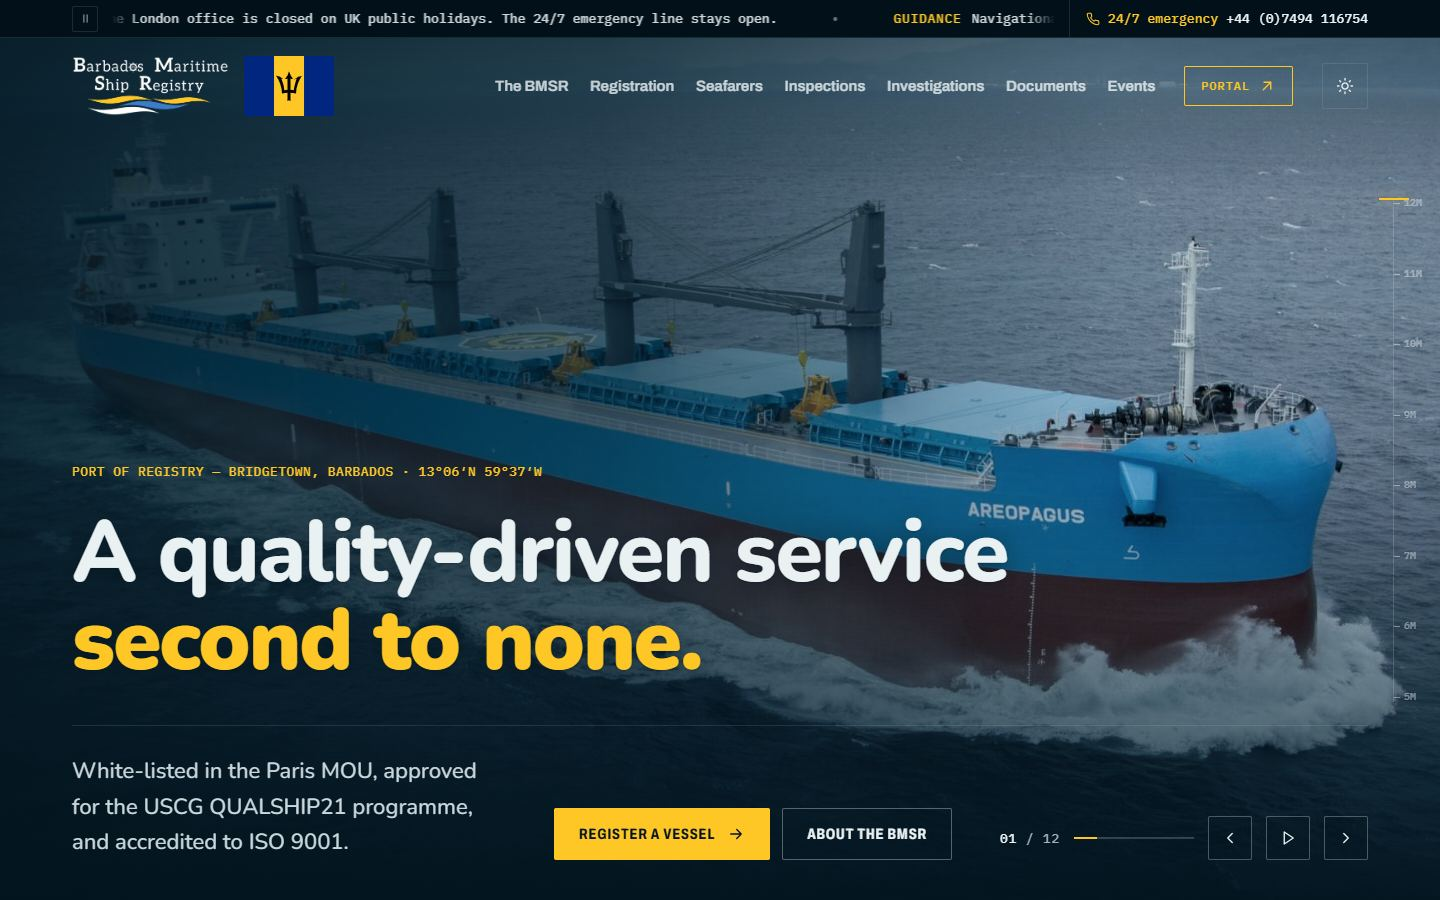
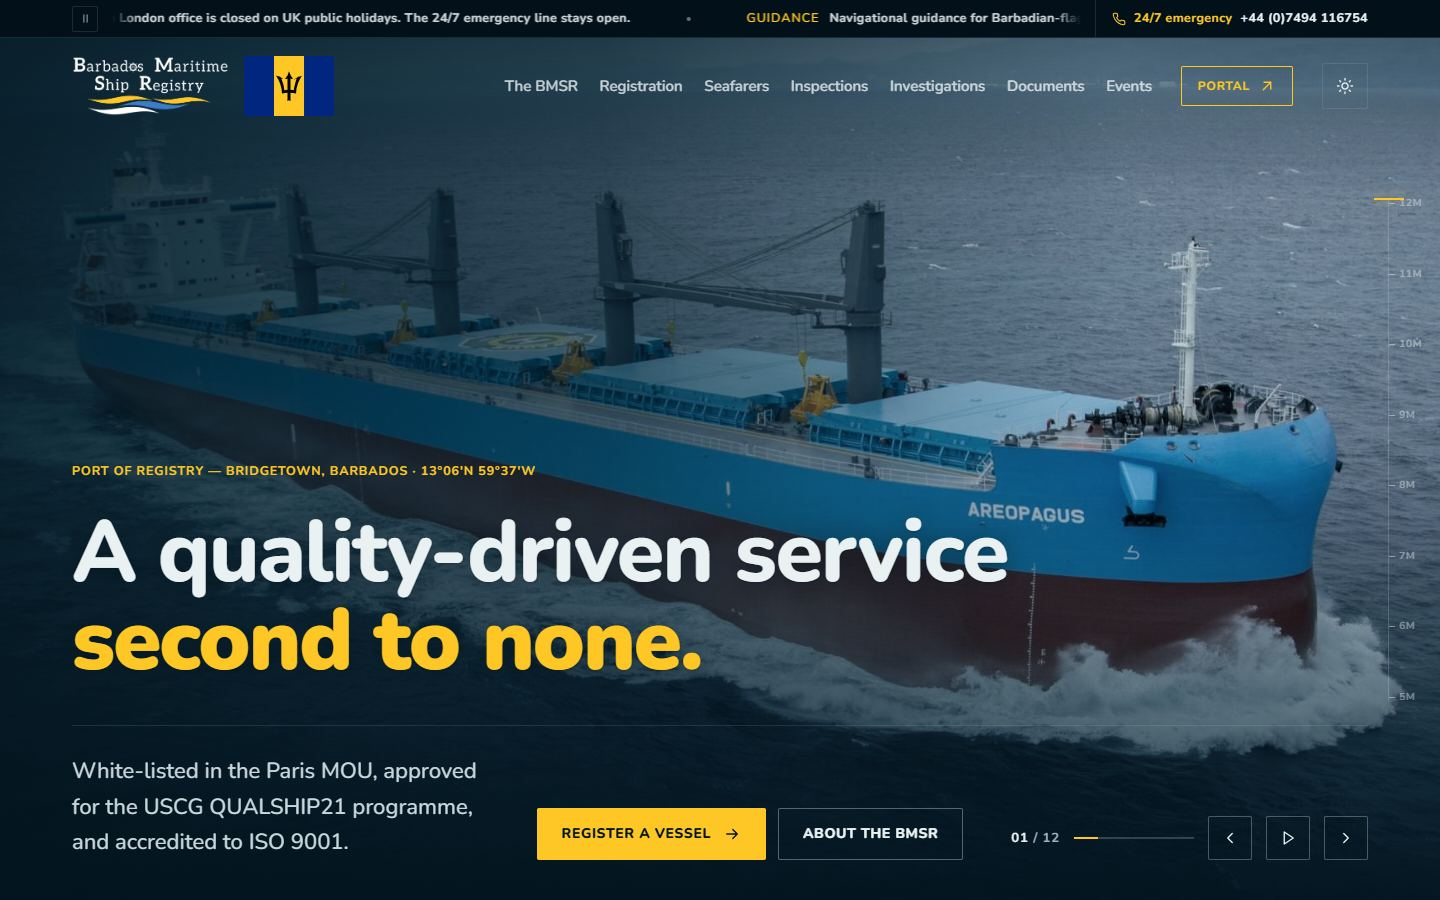
update font everywhere on the option b & c

diff --git a/index.html b/index.html
@@ -131,7 +131,7 @@ footer .wrap{display:flex;justify-content:space-between;gap:12px 24px;flex-wrap:
   <section class="intro wrap">
     <p class="tag">Four revised home pages</p>
     <h1 class="hull">Choose a <span>headline style</span></h1>
-    <p class="lead">Every page includes all the changes from your brief: the clearer logo and matching flag, the full-width layout, the scrolling announcement bar, light and dark mode, opening hours, emergency contacts and recognised organisations. Options A, B and C differ only in the typography of the banner headline, so you can compare like for like. Option D keeps Option A's headline and goes further, with redesigned sections below it.</p>
+    <p class="lead">Every page includes all the changes from your brief: the clearer logo and matching flag, the full-width layout, the scrolling announcement bar, light and dark mode, opening hours, emergency contacts and recognised organisations. Option A keeps the current fonts and changes only the banner headline. Options B and C each carry their own font through the whole page: rounded Nunito in B, Plus Jakarta Sans in C. Option D keeps Option A's headline and goes further, with redesigned sections below it.</p>
   </section>
 
   <section class="opts wrap" aria-label="Options">
@@ -150,8 +150,8 @@ footer .wrap{display:flex;justify-content:space-between;gap:12px 24px;flex-wrap:
       <div class="body">
         <div class="name"><b>B</b><h2 class="hull">Soft Modern</h2></div>
         <p class="sample sb">A quality-driven service <span>second to none.</span></p>
-        <dl><dt>Font</dt><dd>Nunito, a rounded sans</dd><dt>Weights</dt><dd>Heavy 800, key phrase 900</dd><dt>Case</dt><dd>Sentence case</dd></dl>
-        <p class="note">The rounded style you asked to try: softer and more modern, while the heavy weight keeps it confident and professional.</p>
+        <dl><dt>Font</dt><dd>Nunito, a rounded sans, used throughout the page</dd><dt>Weights</dt><dd>Heavy 800, key phrase 900</dd><dt>Case</dt><dd>Sentence case, headings included</dd></dl>
+        <p class="note">The rounded style you asked to try, carried through every heading, button and label for a softer, more modern feel. The heavy weight keeps it confident and professional.</p>
         <div class="links"><a class="btn btn-gold" href="option-b/index.html" target="_blank" rel="noopener">View option B <svg class="ar"><use href="#ar"/></svg><span class="sr"> (opens in a new tab)</span></a><a class="btn btn-line" href="option-b/index.html?theme=light" target="_blank" rel="noopener">Light mode<span class="sr"> (opens in a new tab)</span></a></div>
       </div>
     </article>
@@ -160,8 +160,8 @@ footer .wrap{display:flex;justify-content:space-between;gap:12px 24px;flex-wrap:
       <div class="body">
         <div class="name"><b>C</b><h2 class="hull">Clean Authority</h2></div>
         <p class="sample sc">A quality-driven service <span>second to none.</span></p>
-        <dl><dt>Font</dt><dd>Plus Jakarta Sans</dd><dt>Weights</dt><dd>Bold 700 statement, light 300 key phrase</dd><dt>Case</dt><dd>Sentence case</dd></dl>
-        <p class="note">Calm and corporate. The reverse of Option A's contrast: a bold statement answered by an elegant light phrase in gold.</p>
+        <dl><dt>Font</dt><dd>Plus Jakarta Sans, used throughout the page</dd><dt>Weights</dt><dd>Bold 700 statement, light 300 key phrase, in every heading</dd><dt>Case</dt><dd>Sentence case, headings included</dd></dl>
+        <p class="note">Calm and corporate, across the whole page. Every heading pairs a bold statement with an elegant light phrase in gold, the reverse of Option A's contrast.</p>
         <div class="links"><a class="btn btn-gold" href="option-c/index.html" target="_blank" rel="noopener">View option C <svg class="ar"><use href="#ar"/></svg><span class="sr"> (opens in a new tab)</span></a><a class="btn btn-line" href="option-c/index.html?theme=light" target="_blank" rel="noopener">Light mode<span class="sr"> (opens in a new tab)</span></a></div>
       </div>
     </article>

diff --git a/option-c/index.html b/option-c/index.html
@@ -409,12 +409,44 @@ button,input{font:inherit}
 <link href="https://fonts.googleapis.com/css2?family=Plus+Jakarta+Sans:wght@200..800&display=swap" rel="stylesheet">
 <style>
 /* Option C · Clean Authority
-   Plus Jakarta Sans in sentence case, tightly tracked: a bold statement (700) answered by a light key phrase (300) in gold,
-   the reverse of Option A's contrast. The lead is set light (300) and a touch larger for a calm, corporate feel. */
+   Plus Jakarta Sans throughout the page, in sentence case and tightly tracked. Its signature, set by the banner, is a bold
+   statement (700) answered by a light key phrase (300) in gold; every section heading repeats it. The font has no condensed
+   width, so headings and big numbers are sized down to keep their line breaks. Labels keep capitals and wide tracking. */
+:root{--sans:"Plus Jakarta Sans",system-ui,-apple-system,"Segoe UI",sans-serif;--mono:"Plus Jakarta Sans",system-ui,-apple-system,"Segoe UI",sans-serif}
+
+/* banner headline */
 .hero h1{font-family:"Plus Jakarta Sans",var(--sans);font-stretch:100%;text-transform:none;font-weight:700;letter-spacing:-.035em;line-height:1.04;font-size:clamp(46px,5.8vw,96px);max-width:13em}
 .hero h1 span{font-weight:300;letter-spacing:-.03em}
 .hero .lead{font-family:"Plus Jakarta Sans",var(--sans);font-weight:300;font-size:clamp(19px,1.6vw,22px);color:#D6E2E6}
-@media (max-width:640px){.hero h1{font-size:clamp(38px,10.5vw,52px)}}
+
+/* headings and big numbers: sentence case, bold 700, tight tracking; the gold key phrase goes light, echoing the banner */
+.hull{font-stretch:100%;text-transform:none;font-weight:700;letter-spacing:-.03em;line-height:1.02}
+.h2 span,.ftr .news-l h2 span{font-weight:300;letter-spacing:-.025em}
+.h2{font-size:clamp(34px,4.2vw,60px)}
+.cell .big{font-size:clamp(23px,1.85vw,29px);line-height:1.06}
+.badge b{font-size:27px}
+.marks b{font-size:clamp(42px,4.4vw,66px)}
+.svc h3{font-size:25px}
+.isle b{font-size:clamp(46px,5.4vw,84px)}
+.accr b{font-size:clamp(24px,2vw,31px)}
+.cta .line{font-size:clamp(34px,5.2vw,78px)}
+.ftr .news-l h2{font-size:clamp(30px,3.2vw,44px)}
+.mnav a{font-size:27px}
+
+/* buttons: were condensed caps; this font is wider, so slightly smaller */
+.btn{font-stretch:100%;font-weight:700;font-size:14px;letter-spacing:.05em}
+
+/* labels (were IBM Plex Mono 500): bolder with wider tracking so they still read as labels */
+.tag,.go,.abar,.portal,.count,.status,.badge small,.sheet dt,.ntm .ref,.ftr label,.ftr .bottom,.draught,.mbar .call{font-weight:600;letter-spacing:.08em}
+.abar,.ftr .bottom{letter-spacing:.03em}
+
+@media (max-width:640px){
+  .hero h1{font-size:clamp(38px,10.5vw,52px)}
+  .marks b{font-size:44px}
+  .isle b{font-size:48px}
+  .accr b{font-size:24px}
+  .cta .line{font-size:clamp(30px,8.6vw,42px)}
+}
 </style>
 </head>
 <body>

diff --git a/option-b/index.html b/option-b/index.html
@@ -409,12 +409,44 @@ button,input{font:inherit}
 <link href="https://fonts.googleapis.com/css2?family=Nunito:wght@400..1000&display=swap" rel="stylesheet">
 <style>
 /* Option B · Soft Modern
-   Nunito, a rounded sans, in sentence case for a softer, friendlier headline.
-   Heavy throughout (800, key phrase 900) so the rounded shapes still read as confident; the lead follows in Nunito 500. */
+   Nunito, a rounded sans, throughout the page: headline, headings, body text, buttons and labels.
+   Headings and big numbers switch from condensed capitals to sentence case, sized down to keep their line breaks
+   (Nunito has no condensed width). Labels keep their capitals and tracking, so they still read as labels. */
+:root{--sans:"Nunito",system-ui,-apple-system,"Segoe UI",sans-serif;--mono:"Nunito",system-ui,-apple-system,"Segoe UI",sans-serif}
+
+/* banner headline: heavy throughout (800, key phrase 900) so the rounded shapes still read as confident */
 .hero h1{font-family:"Nunito",var(--sans);font-stretch:100%;text-transform:none;font-weight:800;letter-spacing:-.02em;line-height:1.02;font-size:clamp(48px,6vw,100px);max-width:13em}
 .hero h1 span{font-weight:900}
 .hero .lead{font-family:"Nunito",var(--sans);font-weight:500;font-size:clamp(19px,1.6vw,22px)}
-@media (max-width:640px){.hero h1{font-size:clamp(38px,11vw,54px)}}
+
+/* headings and big numbers: sentence case Nunito 800 in place of condensed caps */
+.hull{font-stretch:100%;text-transform:none;letter-spacing:-.02em;line-height:1}
+.h2{font-size:clamp(34px,4.2vw,60px)}
+.cell .big{font-size:clamp(24px,1.9vw,30px);line-height:1.05}
+.badge b{font-size:28px}
+.marks b{font-size:clamp(42px,4.4vw,66px)}
+.svc h3{font-size:26px}
+.isle b{font-size:clamp(48px,5.6vw,86px)}
+.accr b{font-size:clamp(24px,2vw,32px)}
+.cta .line{font-size:clamp(36px,5.4vw,80px)}
+.ftr .news-l h2{font-size:clamp(30px,3.2vw,44px)}
+.mnav a{font-size:28px}
+
+/* buttons: were condensed caps; Nunito capitals are wider, so slightly smaller with less tracking */
+.btn{font-stretch:100%;font-weight:800;font-size:14px;letter-spacing:.04em}
+
+/* labels (were IBM Plex Mono 500): Nunito is lighter at small sizes, so bolder and a touch more tracking */
+.tag,.go,.abar,.portal,.count,.status,.badge small,.sheet dt,.ntm .ref,.ftr label,.ftr .bottom,.draught,.mbar .call{font-weight:700;letter-spacing:.07em}
+.abar,.ftr .bottom{letter-spacing:.03em}
+.draught{font-weight:600}
+
+@media (max-width:640px){
+  .hero h1{font-size:clamp(38px,11vw,54px)}
+  .marks b{font-size:44px}
+  .isle b{font-size:50px}
+  .accr b{font-size:24px}
+  .cta .line{font-size:clamp(32px,9vw,44px)}
+}
 </style>
 </head>
 <body>

diff --git a/src/type-c.css b/src/type-c.css
@@ -1,7 +1,39 @@
 /* Option C · Clean Authority
-   Plus Jakarta Sans in sentence case, tightly tracked: a bold statement (700) answered by a light key phrase (300) in gold,
-   the reverse of Option A's contrast. The lead is set light (300) and a touch larger for a calm, corporate feel. */
+   Plus Jakarta Sans throughout the page, in sentence case and tightly tracked. Its signature, set by the banner, is a bold
+   statement (700) answered by a light key phrase (300) in gold; every section heading repeats it. The font has no condensed
+   width, so headings and big numbers are sized down to keep their line breaks. Labels keep capitals and wide tracking. */
+:root{--sans:"Plus Jakarta Sans",system-ui,-apple-system,"Segoe UI",sans-serif;--mono:"Plus Jakarta Sans",system-ui,-apple-system,"Segoe UI",sans-serif}
+
+/* banner headline */
 .hero h1{font-family:"Plus Jakarta Sans",var(--sans);font-stretch:100%;text-transform:none;font-weight:700;letter-spacing:-.035em;line-height:1.04;font-size:clamp(46px,5.8vw,96px);max-width:13em}
 .hero h1 span{font-weight:300;letter-spacing:-.03em}
 .hero .lead{font-family:"Plus Jakarta Sans",var(--sans);font-weight:300;font-size:clamp(19px,1.6vw,22px);color:#D6E2E6}
-@media (max-width:640px){.hero h1{font-size:clamp(38px,10.5vw,52px)}}
+
+/* headings and big numbers: sentence case, bold 700, tight tracking; the gold key phrase goes light, echoing the banner */
+.hull{font-stretch:100%;text-transform:none;font-weight:700;letter-spacing:-.03em;line-height:1.02}
+.h2 span,.ftr .news-l h2 span{font-weight:300;letter-spacing:-.025em}
+.h2{font-size:clamp(34px,4.2vw,60px)}
+.cell .big{font-size:clamp(23px,1.85vw,29px);line-height:1.06}
+.badge b{font-size:27px}
+.marks b{font-size:clamp(42px,4.4vw,66px)}
+.svc h3{font-size:25px}
+.isle b{font-size:clamp(46px,5.4vw,84px)}
+.accr b{font-size:clamp(24px,2vw,31px)}
+.cta .line{font-size:clamp(34px,5.2vw,78px)}
+.ftr .news-l h2{font-size:clamp(30px,3.2vw,44px)}
+.mnav a{font-size:27px}
+
+/* buttons: were condensed caps; this font is wider, so slightly smaller */
+.btn{font-stretch:100%;font-weight:700;font-size:14px;letter-spacing:.05em}
+
+/* labels (were IBM Plex Mono 500): bolder with wider tracking so they still read as labels */
+.tag,.go,.abar,.portal,.count,.status,.badge small,.sheet dt,.ntm .ref,.ftr label,.ftr .bottom,.draught,.mbar .call{font-weight:600;letter-spacing:.08em}
+.abar,.ftr .bottom{letter-spacing:.03em}
+
+@media (max-width:640px){
+  .hero h1{font-size:clamp(38px,10.5vw,52px)}
+  .marks b{font-size:44px}
+  .isle b{font-size:48px}
+  .accr b{font-size:24px}
+  .cta .line{font-size:clamp(30px,8.6vw,42px)}
+}

diff --git a/src/type-b.css b/src/type-b.css
@@ -1,7 +1,39 @@
 /* Option B · Soft Modern
-   Nunito, a rounded sans, in sentence case for a softer, friendlier headline.
-   Heavy throughout (800, key phrase 900) so the rounded shapes still read as confident; the lead follows in Nunito 500. */
+   Nunito, a rounded sans, throughout the page: headline, headings, body text, buttons and labels.
+   Headings and big numbers switch from condensed capitals to sentence case, sized down to keep their line breaks
+   (Nunito has no condensed width). Labels keep their capitals and tracking, so they still read as labels. */
+:root{--sans:"Nunito",system-ui,-apple-system,"Segoe UI",sans-serif;--mono:"Nunito",system-ui,-apple-system,"Segoe UI",sans-serif}
+
+/* banner headline: heavy throughout (800, key phrase 900) so the rounded shapes still read as confident */
 .hero h1{font-family:"Nunito",var(--sans);font-stretch:100%;text-transform:none;font-weight:800;letter-spacing:-.02em;line-height:1.02;font-size:clamp(48px,6vw,100px);max-width:13em}
 .hero h1 span{font-weight:900}
 .hero .lead{font-family:"Nunito",var(--sans);font-weight:500;font-size:clamp(19px,1.6vw,22px)}
-@media (max-width:640px){.hero h1{font-size:clamp(38px,11vw,54px)}}
+
+/* headings and big numbers: sentence case Nunito 800 in place of condensed caps */
+.hull{font-stretch:100%;text-transform:none;letter-spacing:-.02em;line-height:1}
+.h2{font-size:clamp(34px,4.2vw,60px)}
+.cell .big{font-size:clamp(24px,1.9vw,30px);line-height:1.05}
+.badge b{font-size:28px}
+.marks b{font-size:clamp(42px,4.4vw,66px)}
+.svc h3{font-size:26px}
+.isle b{font-size:clamp(48px,5.6vw,86px)}
+.accr b{font-size:clamp(24px,2vw,32px)}
+.cta .line{font-size:clamp(36px,5.4vw,80px)}
+.ftr .news-l h2{font-size:clamp(30px,3.2vw,44px)}
+.mnav a{font-size:28px}
+
+/* buttons: were condensed caps; Nunito capitals are wider, so slightly smaller with less tracking */
+.btn{font-stretch:100%;font-weight:800;font-size:14px;letter-spacing:.04em}
+
+/* labels (were IBM Plex Mono 500): Nunito is lighter at small sizes, so bolder and a touch more tracking */
+.tag,.go,.abar,.portal,.count,.status,.badge small,.sheet dt,.ntm .ref,.ftr label,.ftr .bottom,.draught,.mbar .call{font-weight:700;letter-spacing:.07em}
+.abar,.ftr .bottom{letter-spacing:.03em}
+.draught{font-weight:600}
+
+@media (max-width:640px){
+  .hero h1{font-size:clamp(38px,11vw,54px)}
+  .marks b{font-size:44px}
+  .isle b{font-size:50px}
+  .accr b{font-size:24px}
+  .cta .line{font-size:clamp(32px,9vw,44px)}
+}

diff --git a/README.md b/README.md
@@ -7,11 +7,11 @@ There are four options, plus a review page that compares them:
 | Option | Name | What's different |
 |---|---|---|
 | **A** | Refined Hull | Headline in Archivo capitals: light 300 lead-in, heavy 900 key phrase. Closest to v6. |
-| **B** | Soft Modern | Headline in Nunito (rounded), sentence case, weights 800/900. |
-| **C** | Clean Authority | Headline in Plus Jakarta Sans, sentence case: bold 700 statement, light 300 key phrase. |
+| **B** | Soft Modern | Nunito (rounded) **throughout the page**: headline, headings, body text, buttons and labels. Sentence case, weights 800/900. |
+| **C** | Clean Authority | Plus Jakarta Sans **throughout the page**, sentence case. Every heading pairs a bold 700 statement with a light 300 gold key phrase. |
 | **D** | Refined Plus | Option A's headline, plus redesigned sections (see [Option D](#option-d)). |
 
-Options A–C are identical apart from the banner headline, so the client can compare typography like for like.
+Option A changes only the banner headline. Options B and C each carry their own font through the whole page.
 
 ## Quick start
 
@@ -39,7 +39,7 @@ review/                    Screenshots used on the review page
 option-a/ … option-d/      GENERATED pages. Never edit these by hand
 src/
   home.html                The single source for the home page, shared by every option
-  type-a.css … type-c.css  Each option's headline typography (D uses type-a.css)
+  type-a.css … type-c.css  Each option's typography: A the headline only, B and C the whole page (D uses type-a.css)
   option-d/                Option D only (see below)
 tools/
   build-options.mjs        Builds option-a … option-d from src/
